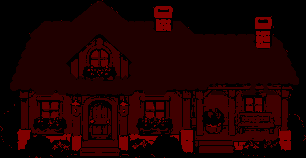
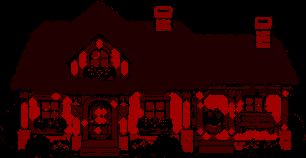
C10b P3: material sidings (brick, fieldstone, logs) on broad wall planks, trim kept
Claude-Session: https://claude.ai/code/session_013g54opDJbSzBZ1hF4NWyGa

diff --git a/tools/slice_c10b_ext.py b/tools/slice_c10b_ext.py
@@ -40,6 +40,43 @@ def key(rgba):
     return a
 
 
+# Seamless straight-on wall textures for the siding "material" styles (c10b_01-22):
+# the shader tiles them over the walls, shaded by the painted planks' light.
+WALLS = {"file": "ext_walls.png", "names": ["brick", "fieldstone", "logs"], "px": 64,
+         "prompt": "3 square seamless wall swatches: red brick, grey fieldstone, horizontal log cabin (generate_image)"}
+
+
+def tileable(im):
+    """Cross-fade a half-offset copy across the seams so the swatch wraps."""
+    a = np.asarray(im).astype(np.float32)
+    h, w = a.shape[:2]
+    sh = np.roll(np.roll(a, h // 2, 0), w // 2, 1)
+    yy = np.abs(np.arange(h) - h / 2) / (h / 2)
+    xx = np.abs(np.arange(w) - w / 2) / (w / 2)
+    m = np.clip((np.maximum(yy[:, None], xx[None, :]) - 0.7) / 0.3, 0, 1)[..., None]
+    return Image.fromarray((a * (1 - m) + sh * m).astype(np.uint8), im.mode)
+
+
+def walls():
+    src = os.path.join(INC, WALLS["file"])
+    rgba = key(np.asarray(Image.open(src).convert("RGBA")))
+    boxes = sorted(blobs(rgba, merge=2, min_area=5000), key=lambda b: b[0])
+    if len(boxes) != len(WALLS["names"]):
+        print("walls: found", len(boxes))
+        sys.exit(1)
+    for name, b in zip(WALLS["names"], boxes):
+        x0, y0, x1, y1 = b
+        side = min(x1 - x0, y1 - y0) - 12
+        cx, cy = (x0 + x1) // 2, (y0 + y1) // 2
+        im = Image.fromarray(rgba[cy - side // 2:cy + side // 2, cx - side // 2:cx + side // 2], "RGBA").convert("RGB")
+        im = tileable(im.resize((WALLS["px"] * 2, WALLS["px"] * 2), Image.LANCZOS))
+        im = tileable(im).resize((WALLS["px"], WALLS["px"]), Image.LANCZOS)
+        dst = os.path.join(OUT, "wall_%s.png" % name)
+        if os.path.exists(dst):
+            os.remove(dst)
+        im.save(dst)
+
+
 def main():
     os.makedirs(OUT, exist_ok=True)
     made = 0
@@ -66,7 +103,8 @@ def main():
                 os.remove(dst)  # hardlinked art: never write in place
             Image.fromarray(arr, "RGBA").save(dst)
             made += 1
-    print("house parts overlays:", made)
+    walls()
+    print("house parts overlays:", made, "+ walls", len(WALLS["names"]))
 
 
 if __name__ == "__main__":

diff --git a/tools/make_house_parts.py b/tools/make_house_parts.py
@@ -5,8 +5,8 @@ Writes art/gen/house_parts/<house>_parts.png for house, house_2, house_3: the sa
 size as the day picture, R channel = part id * 32 (nearest-sampled by
 shaders/house_palette.gdshader in UV space, so it also fits the slightly scaled
 _night/_snow pictures):
-  1 roof tiles   2 siding / wood (walls, trim, posts, steps)   3 window glass
-  4 stonework (base, chimneys)   0 anything else (flowers, bushes, lamps, outline)
+  1 roof tiles   2 wood trim (posts, rails, beams, steps)   3 window glass
+  4 stonework (base, chimneys)   5 broad wall planks   0 anything else (flowers, bushes, lamps, outline)
 Roof = the saturated red tile core, closed morphologically and hole-filled so tile
 highlights and inner outlines inside the roof get the ramp too (c10b_01-15).
 A coloured preview goes to /tmp/house_parts_preview.png. `--check` only verifies
@@ -24,7 +24,7 @@ SRC = os.path.join(ROOT, "art/gen/buildings")
 OUT = os.path.join(ROOT, "art/gen/house_parts")
 HOUSES = ["house", "house_2", "house_3"]
 STEP = 32
-PREVIEW = {1: (40, 90, 230), 2: (240, 200, 40), 3: (40, 230, 230), 4: (200, 60, 200)}
+PREVIEW = {1: (40, 90, 230), 2: (240, 200, 40), 3: (40, 230, 230), 4: (200, 60, 200), 5: (240, 120, 40)}
 
 
 # Door boxes (day-picture px, x0, y0, x1, y1): the painted door is never roof (its
@@ -80,6 +80,12 @@ def parts(img, door=None, roof_y=None):
     br0 = b / np.maximum(r, 1)
     wood = warm & ~roof & (gr >= 0.38) & (gr < 0.9) & ~((br0 > 0.5) & (gr > 0.6))
     out[wood] = 2
+    # broad wall areas (not posts, rails, beams, steps): material sidings go here only
+    broad = ndimage.binary_opening(wood | glass, iterations=3) & wood
+    out[broad] = 5
+    if door:  # steps below the door are trim, not wall
+        low = out[door[3]:, :]
+        low[low == 5] = 2
     out[glass] = 3
     br = b / np.maximum(r, 1)
     stone = op & (br > 0.5) & (gr > 0.6) & (r >= g) & (sat < 0.45) & (lum > 60) & ~glass & ~roof
